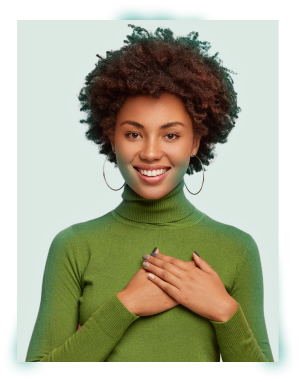
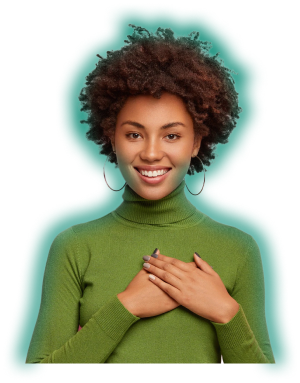
dia 02 - antes JS

diff --git a/index.html b/index.html
@@ -8,7 +8,90 @@
     <title>DoctorCare</title>
   </head>
   <body>
-    <header>
+    <nav class="scroll">
+      <div class="wrapper">
+        <a class="logo" href="#">
+          <svg
+            width="133"
+            height="18"
+            viewBox="0 0 133 18"
+            fill="none"
+            xmlns="http://www.w3.org/2000/svg"
+          >
+            <path
+              d="M0 17.088V0.287999H5.16C8.12 0.287999 10.296 1.04 11.688 2.544C13.096 4.048 13.8 6.112 13.8 8.736C13.8 11.312 13.096 13.352 11.688 14.856C10.296 16.344 8.12 17.088 5.16 17.088H0ZM2.016 15.408H5.112C6.744 15.408 8.04 15.144 9 14.616C9.976 14.072 10.672 13.304 11.088 12.312C11.504 11.304 11.712 10.112 11.712 8.736C11.712 7.328 11.504 6.12 11.088 5.112C10.672 4.104 9.976 3.328 9 2.784C8.04 2.24 6.744 1.968 5.112 1.968H2.016V15.408Z"
+              fill="#212529"
+            />
+            <path
+              d="M22.4949 17.376C21.3749 17.376 20.3669 17.12 19.4709 16.608C18.5749 16.096 17.8629 15.376 17.3349 14.448C16.8229 13.504 16.5669 12.4 16.5669 11.136C16.5669 9.872 16.8309 8.776 17.3589 7.848C17.8869 6.904 18.5989 6.176 19.4949 5.664C20.4069 5.152 21.4229 4.896 22.5429 4.896C23.6629 4.896 24.6709 5.152 25.5669 5.664C26.4629 6.176 27.1669 6.904 27.6789 7.848C28.2069 8.776 28.4709 9.872 28.4709 11.136C28.4709 12.4 28.2069 13.504 27.6789 14.448C27.1509 15.376 26.4309 16.096 25.5189 16.608C24.6229 17.12 23.6149 17.376 22.4949 17.376ZM22.4949 15.648C23.1829 15.648 23.8229 15.48 24.4149 15.144C25.0069 14.808 25.4869 14.304 25.8549 13.632C26.2229 12.96 26.4069 12.128 26.4069 11.136C26.4069 10.144 26.2229 9.312 25.8549 8.64C25.5029 7.968 25.0309 7.464 24.4389 7.128C23.8469 6.792 23.2149 6.624 22.5429 6.624C21.8549 6.624 21.2149 6.792 20.6229 7.128C20.0309 7.464 19.5509 7.968 19.1829 8.64C18.8149 9.312 18.6309 10.144 18.6309 11.136C18.6309 12.128 18.8149 12.96 19.1829 13.632C19.5509 14.304 20.0229 14.808 20.5989 15.144C21.1909 15.48 21.8229 15.648 22.4949 15.648Z"
+              fill="#212529"
+            />
+            <path
+              d="M37.2261 17.376C36.0901 17.376 35.0661 17.12 34.1541 16.608C33.2581 16.08 32.5461 15.352 32.0181 14.424C31.5061 13.48 31.2501 12.384 31.2501 11.136C31.2501 9.888 31.5061 8.8 32.0181 7.872C32.5461 6.928 33.2581 6.2 34.1541 5.688C35.0661 5.16 36.0901 4.896 37.2261 4.896C38.6341 4.896 39.8181 5.264 40.7781 6C41.7541 6.736 42.3701 7.72 42.6261 8.952H40.5621C40.4021 8.216 40.0101 7.648 39.3861 7.248C38.7621 6.832 38.0341 6.624 37.2021 6.624C36.5301 6.624 35.8981 6.792 35.3061 7.128C34.7141 7.464 34.2341 7.968 33.8661 8.64C33.4981 9.312 33.3141 10.144 33.3141 11.136C33.3141 12.128 33.4981 12.96 33.8661 13.632C34.2341 14.304 34.7141 14.816 35.3061 15.168C35.8981 15.504 36.5301 15.672 37.2021 15.672C38.0341 15.672 38.7621 15.472 39.3861 15.072C40.0101 14.656 40.4021 14.072 40.5621 13.32H42.6261C42.3861 14.52 41.7781 15.496 40.8021 16.248C39.8261 17 38.6341 17.376 37.2261 17.376Z"
+              fill="#212529"
+            />
+            <path
+              d="M50.2974 17.088C49.2094 17.088 48.3534 16.824 47.7294 16.296C47.1054 15.768 46.7934 14.816 46.7934 13.44V6.888H44.7294V5.184H46.7934L47.0574 2.328H48.8094V5.184H52.3134V6.888H48.8094V13.44C48.8094 14.192 48.9614 14.704 49.2654 14.976C49.5694 15.232 50.1054 15.36 50.8734 15.36H52.1214V17.088H50.2974Z"
+              fill="#212529"
+            />
+            <path
+              d="M60.4506 17.376C59.3306 17.376 58.3226 17.12 57.4266 16.608C56.5306 16.096 55.8186 15.376 55.2906 14.448C54.7786 13.504 54.5226 12.4 54.5226 11.136C54.5226 9.872 54.7866 8.776 55.3146 7.848C55.8426 6.904 56.5546 6.176 57.4506 5.664C58.3626 5.152 59.3786 4.896 60.4986 4.896C61.6186 4.896 62.6266 5.152 63.5226 5.664C64.4186 6.176 65.1226 6.904 65.6346 7.848C66.1626 8.776 66.4266 9.872 66.4266 11.136C66.4266 12.4 66.1626 13.504 65.6346 14.448C65.1066 15.376 64.3866 16.096 63.4746 16.608C62.5786 17.12 61.5706 17.376 60.4506 17.376ZM60.4506 15.648C61.1386 15.648 61.7786 15.48 62.3706 15.144C62.9626 14.808 63.4426 14.304 63.8106 13.632C64.1786 12.96 64.3626 12.128 64.3626 11.136C64.3626 10.144 64.1786 9.312 63.8106 8.64C63.4586 7.968 62.9866 7.464 62.3946 7.128C61.8026 6.792 61.1706 6.624 60.4986 6.624C59.8106 6.624 59.1706 6.792 58.5786 7.128C57.9866 7.464 57.5066 7.968 57.1386 8.64C56.7706 9.312 56.5866 10.144 56.5866 11.136C56.5866 12.128 56.7706 12.96 57.1386 13.632C57.5066 14.304 57.9786 14.808 58.5546 15.144C59.1466 15.48 59.7786 15.648 60.4506 15.648Z"
+              fill="#212529"
+            />
+            <path
+              d="M69.7097 17.088V5.184H71.5337L71.7017 7.464C72.0697 6.68 72.6297 6.056 73.3817 5.592C74.1337 5.128 75.0617 4.896 76.1657 4.896V7.008H75.6137C74.9097 7.008 74.2617 7.136 73.6697 7.392C73.0777 7.632 72.6057 8.048 72.2537 8.64C71.9017 9.232 71.7257 10.048 71.7257 11.088V17.088H69.7097Z"
+              fill="#212529"
+            />
+            <path
+              d="M86.4924 17.376C84.7964 17.376 83.3404 17.016 82.1244 16.296C80.9084 15.56 79.9724 14.544 79.3164 13.248C78.6604 11.936 78.3324 10.424 78.3324 8.712C78.3324 7 78.6604 5.488 79.3164 4.176C79.9724 2.864 80.9084 1.84 82.1244 1.104C83.3404 0.368 84.7964 0 86.4924 0C88.5084 0 90.1564 0.504 91.4364 1.512C92.7324 2.504 93.5404 3.904 93.8604 5.712H90.4764C90.2684 4.8 89.8204 4.088 89.1324 3.576C88.4604 3.048 87.5644 2.784 86.4444 2.784C84.8924 2.784 83.6764 3.312 82.7964 4.368C81.9164 5.424 81.4764 6.872 81.4764 8.712C81.4764 10.552 81.9164 12 82.7964 13.056C83.6764 14.096 84.8924 14.616 86.4444 14.616C87.5644 14.616 88.4604 14.376 89.1324 13.896C89.8204 13.4 90.2684 12.72 90.4764 11.856H93.8604C93.5404 13.584 92.7324 14.936 91.4364 15.912C90.1564 16.888 88.5084 17.376 86.4924 17.376Z"
+              fill="#00856F"
+            />
+            <path
+              d="M101.092 17.376C100.068 17.376 99.2278 17.216 98.5718 16.896C97.9158 16.56 97.4277 16.12 97.1077 15.576C96.7878 15.032 96.6278 14.432 96.6278 13.776C96.6278 12.672 97.0598 11.776 97.9238 11.088C98.7878 10.4 100.084 10.056 101.812 10.056H104.836V9.768C104.836 8.952 104.604 8.352 104.14 7.968C103.676 7.584 103.1 7.392 102.412 7.392C101.788 7.392 101.244 7.544 100.78 7.848C100.316 8.136 100.028 8.568 99.9157 9.144H96.9157C96.9958 8.28 97.2837 7.528 97.7797 6.888C98.2917 6.248 98.9477 5.76 99.7477 5.424C100.548 5.072 101.444 4.896 102.436 4.896C104.132 4.896 105.468 5.32 106.444 6.168C107.42 7.016 107.908 8.216 107.908 9.768V17.088H105.292L105.004 15.168C104.652 15.808 104.156 16.336 103.516 16.752C102.892 17.168 102.084 17.376 101.092 17.376ZM101.788 14.976C102.668 14.976 103.348 14.688 103.828 14.112C104.324 13.536 104.636 12.824 104.764 11.976H102.148C101.332 11.976 100.748 12.128 100.396 12.432C100.044 12.72 99.8678 13.08 99.8678 13.512C99.8678 13.976 100.044 14.336 100.396 14.592C100.748 14.848 101.212 14.976 101.788 14.976Z"
+              fill="#00856F"
+            />
+            <path
+              d="M111.319 17.088V5.184H114.055L114.343 7.416C114.775 6.648 115.359 6.04 116.095 5.592C116.847 5.128 117.727 4.896 118.735 4.896V8.136H117.871C117.199 8.136 116.599 8.24 116.071 8.448C115.543 8.656 115.127 9.016 114.823 9.528C114.535 10.04 114.391 10.752 114.391 11.664V17.088H111.319Z"
+              fill="#00856F"
+            />
+            <path
+              d="M126.888 17.376C125.688 17.376 124.624 17.12 123.696 16.608C122.768 16.096 122.04 15.376 121.512 14.448C120.984 13.52 120.72 12.448 120.72 11.232C120.72 10 120.976 8.904 121.488 7.944C122.016 6.984 122.736 6.24 123.648 5.712C124.576 5.168 125.664 4.896 126.912 4.896C128.08 4.896 129.112 5.152 130.008 5.664C130.904 6.176 131.6 6.88 132.096 7.776C132.608 8.656 132.864 9.64 132.864 10.728C132.864 10.904 132.856 11.088 132.84 11.28C132.84 11.472 132.832 11.672 132.816 11.88H123.768C123.832 12.808 124.152 13.536 124.728 14.064C125.32 14.592 126.032 14.856 126.864 14.856C127.488 14.856 128.008 14.72 128.424 14.448C128.856 14.16 129.176 13.792 129.384 13.344H132.504C132.28 14.096 131.904 14.784 131.376 15.408C130.864 16.016 130.224 16.496 129.456 16.848C128.704 17.2 127.848 17.376 126.888 17.376ZM126.912 7.392C126.16 7.392 125.496 7.608 124.92 8.04C124.344 8.456 123.976 9.096 123.816 9.96H129.744C129.696 9.176 129.408 8.552 128.88 8.088C128.352 7.624 127.696 7.392 126.912 7.392Z"
+              fill="#00856F"
+            />
+          </svg>
+        </a>
+        <svg
+          width="22"
+          height="18"
+          viewBox="0 0 22 18"
+          fill="none"
+          xmlns="http://www.w3.org/2000/svg"
+        >
+          <path
+            d="M1 9H21"
+            stroke="#00856F"
+            stroke-width="2"
+            stroke-linecap="round"
+            stroke-linejoin="round"
+          />
+          <path
+            d="M1 1H21"
+            stroke="#00856F"
+            stroke-width="2"
+            stroke-linecap="round"
+            stroke-linejoin="round"
+          />
+          <path
+            d="M9 17L21 17"
+            stroke="#00856F"
+            stroke-width="2"
+            stroke-linecap="round"
+            stroke-linejoin="round"
+          />
+        </svg>
+      </div>
+    </nav>
+    <header class="wrapper">
       <h4>BOAS-VINDAS A DOCTORCARE 👋</h4>
       <h1>Assistência médica simplificada para todos</h1>
       <p class="raiz">

diff --git a/style.css b/style.css
@@ -1,16 +1,6 @@
 @import url('https://fonts.googleapis.com/css2?family=DM+Sans:wght@400;700&display=swap');
 
-:root {
-  font-size: 62.5%; /* por convenção, 100% é 16px - 62.5% é 10px */
-  /* 1 rem = 10px */
-  --primary-color: hsl(170, 100%, 26%);
-  --headline: hsl(210, 11%, 15%);
-  --paragraph: hsl(210, 9%, 31%);
-  --brand-beige: hsl(39, 100%, 97%);
-  --background: hsl(148, 23%, 89%);
-
-
-}
+/* ====================== GERAL ======================== */
 
 * {
   font-family: 'DM Sans', sans-serif;
@@ -19,33 +9,59 @@
   margin: 0;
 }
 
+:root {
+  font-size: 62.5%; /* por convenção, 100% é 16px - 62.5% é 10px */
+  /* 1 rem = 10px */
+  --primary-color: hsl(170, 100%, 26%);
+  --headline: hsl(210, 11%, 15%);
+  --paragraph: hsl(210, 9%, 31%);
+  --brand-beige: hsl(39, 100%, 97%);
+  --background: hsl(148, 23%, 89%);
+  --nav-height: 7.2rem;
+}
+
 body {
   text-align: center;
 }
 
-header {
+.wrapper {
   width: 37.5rem;
-  margin-right: auto;
-  margin-left: auto;
-  margin-top: 4.1rem;
-  margin-bottom: 1.6rem;
-  background-color: var(--background);
+  margin-inline: auto;
+  padding-inline: 2.4rem;
 }
 
-h4 {
+/* ==================== HEADER ======================= */
+
+header::before {
+  content: '';
+  width: 100vw;
+  height: calc(108rem + var(--nav-height));
+  display: block;
+  background-color: var(--background);
+  position: absolute;
+  top: 0;
+  left: 0;
+  z-index: -1;
+}
+
+header {
+  margin-top: calc(4.1rem + var(--nav-height));
+}
+
+header h4 {
   font-size: 1.4rem;
   color: var(--primary-color);
   margin-bottom: 1.6rem;
 }
 
-h1 {
+header h1 {
   font-size: 3.4rem;
   color: var(--headline);
   line-height: 130%;
   margin-bottom: 2.4rem;
 }
 
-p {
+header p {
   font-size: 1.8rem;
   line-height: 150%;
   font-weight: 400;
@@ -53,7 +69,7 @@ p {
   margin-bottom: 3.2rem;
 }
 
-button {
+header button {
   background: var(--primary-color);
   border: none;
   border-radius: 4rem;
@@ -72,34 +88,70 @@ button {
   margin-right: auto;
 }
 
-h3 {
+header img {
+  width: 26.4rem;
+  display: block;
+  margin-inline: auto;
+  object-position: 0 2rem;
+}
+
+.subdados h3 {
   font-weight: 700;
   font-size: 48px;
   line-height: 130%;
   color: var(--headline);
 }
 
-.dados p {
+.subdados p {
   font-weight: 400;
   font-size: 16px;
   line-height: 150%;
   color: var(--primary-color);
-  margin-bottom: auto;
+  margin: 0;
 }
 
 .dados {
   background-color: var(--brand-beige);
   padding-top: 4rem;
-  padding-bottom: 4rem;
+  padding-bottom: 4rem; /* poderia ser substituído top e bottom por padding-block */
+  width: 32.7rem;
+  height: 47rem;
   display: flex;
   align-items: center;
   flex-direction: column;
   gap: 6rem;
-  margin-left: 2.4rem;
-  margin-right: 2.4rem;
+  border: 1px solid var(--background);
+  border-radius: 0.6rem;
 }
 
-img {
-  margin-bottom: -2.5rem;
+/* ==================== NAVIGATION ======================= */
+
+nav {
+  display: flex;
+  /* padding: 2.7rem 2.4rem; */
+  height: var(--nav-height);
+  position: fixed;
+  top: 0;
+  left: 50%;
+  transform: translateX(-50%);
+  z-index: 1;
 }
 
+nav .wrapper {
+  display: flex;
+  align-items: center;
+  justify-content: space-between;
+}
+
+nav.scroll {
+  background: var(--primary-color);
+  width: 100vw;
+}
+
+nav.scroll svg:nth-child(1) path {
+  fill: white;
+}
+
+nav.scroll svg:nth-child(2) path {
+  stroke: white;
+}
